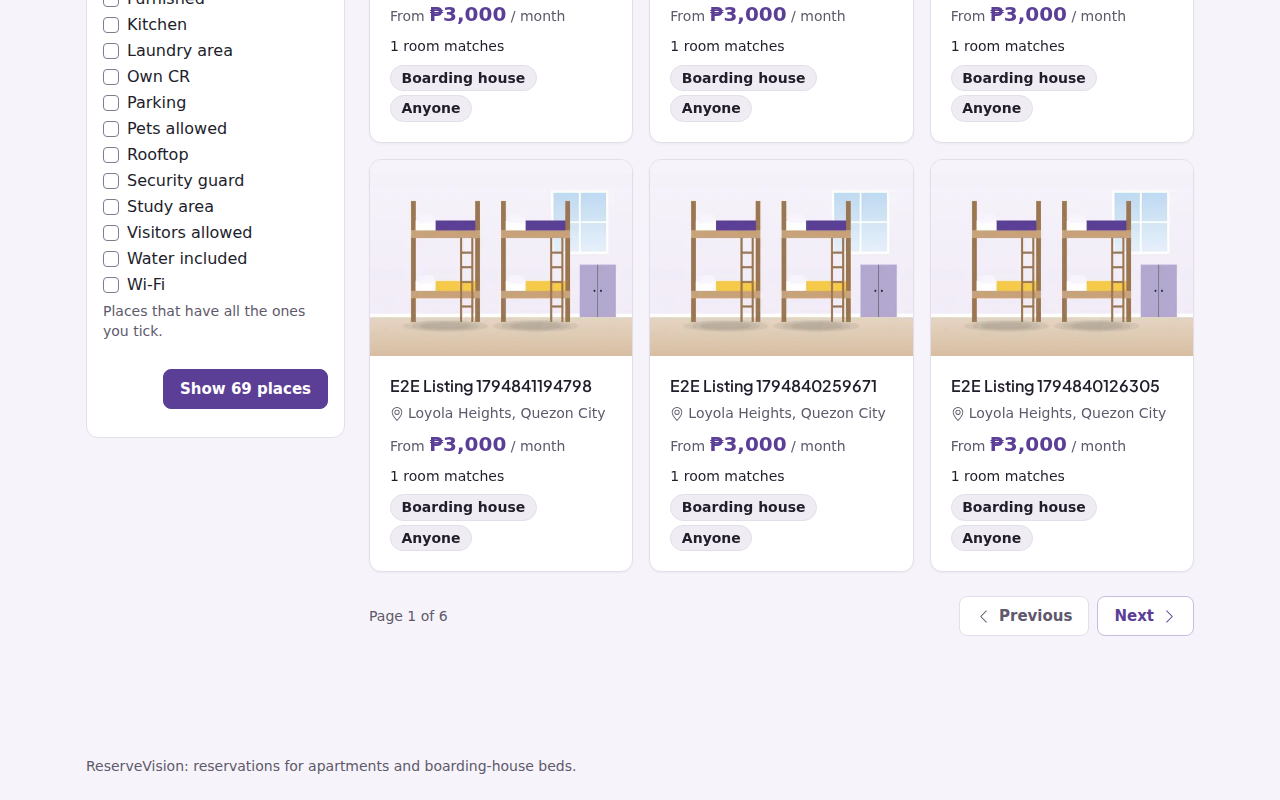
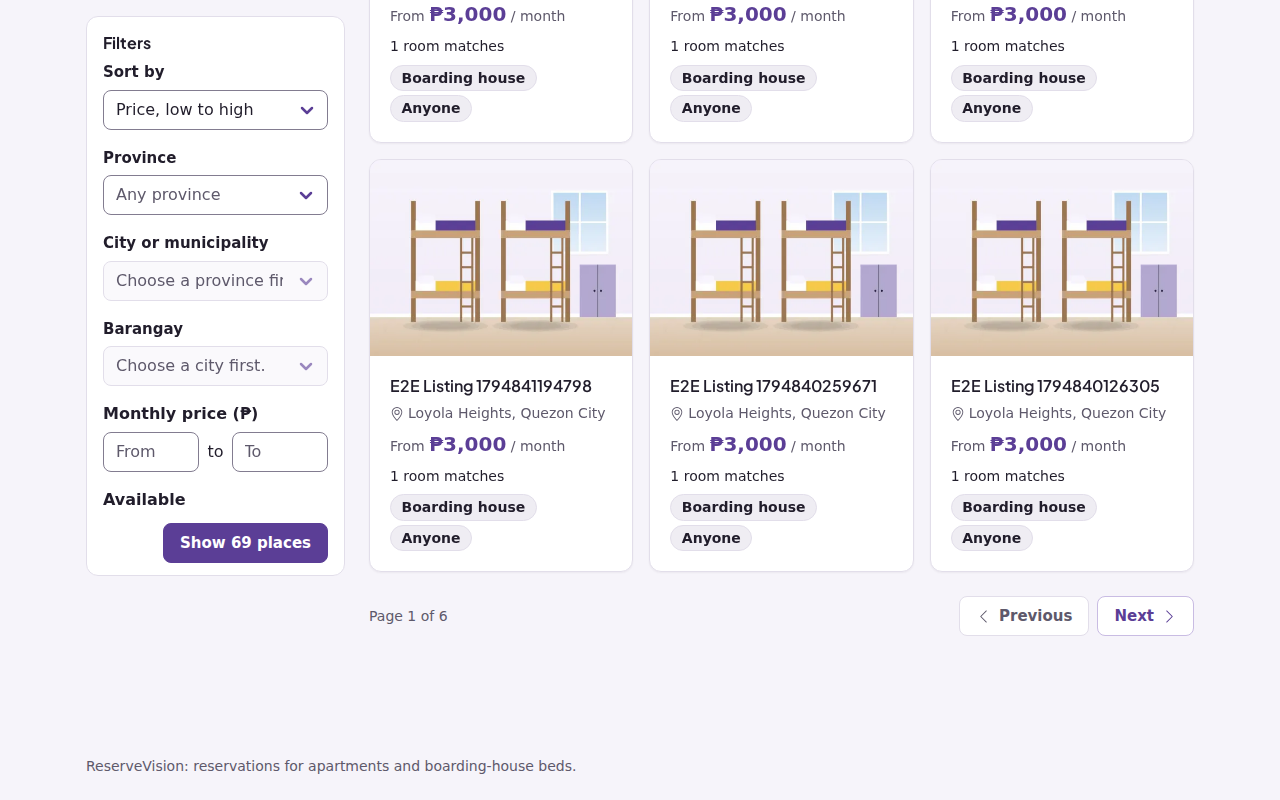
5.2: sticky filter sidebar with its own scroll and the apply bar at its bottom

Changed region(s): [[0.0625, 0.0, 0.2812, 0.7188]]

diff --git a/resources/scss/_components.scss b/resources/scss/_components.scss
@@ -927,10 +927,17 @@ a {
 }
 
 @include media-breakpoint-up(lg) {
-  // Inline sidebar. Bootstrap makes the offcanvas transparent and its body a flex row here. It scrolls with the
-  // page (no own scroll box), so the action bar can stick to the bottom of the screen.
+  // Inline sidebar: Bootstrap makes the offcanvas transparent and its body a flex row here. The card is sticky and as
+  // tall as the screen allows below the page title (15rem = header, title, gap), so its action bar is on screen at the
+  // top of the page too; the fields scroll inside it and the bar stays at its bottom.
   .filter-sheet.offcanvas-lg {
+    position: sticky;
+    top: 1rem;
+    display: flex;
+    flex-direction: column;
     height: auto;
+    max-height: max(20rem, calc(100vh - 15rem));
+    overflow: hidden;
     border: 1px solid $rv-border !important;
     border-radius: $rv-radius-lg;
     background-color: $rv-surface !important;
@@ -938,8 +945,10 @@ a {
 
   .filter-sheet .offcanvas-body.filter-panel {
     display: block;
-    padding: 1rem;
-    overflow-y: visible;
+    flex: 1 1 auto;
+    min-height: 0;
+    padding: 1rem 1rem 0;
+    overflow-y: auto;
   }
 }
 
